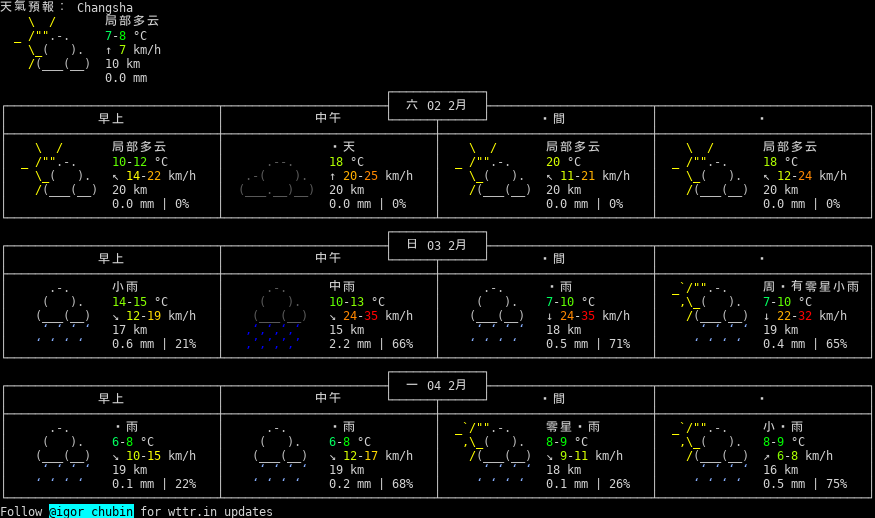
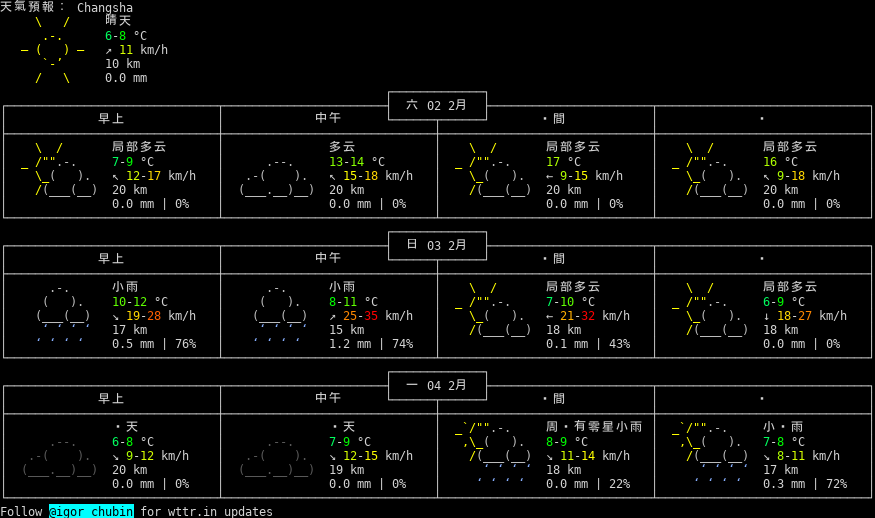
update Today's log:)

diff --git a/README.md b/README.md
@@ -6480,3 +6480,4 @@ My Shell_script learning note
 * 2019年02月02日 星期Sat AM 9:00 CST   天气: 2-4°C (Heiwajima, Japan)
 * 2019年02月02日 星期Sat AM 9:20 CST   天气: 2-4°C (Heiwajima, Japan)
 * 2019年02月02日 星期Sat AM 9:40 CST   天气: 2-4°C (Heiwajima, Japan)
+* 2019年02月02日 星期Sat AM10:00 CST   天气: 8-9°C (Heiwajima, Japan)

diff --git a/weather.md b/weather.md
@@ -25749,3 +25749,7 @@
 
 ![](PNG/20190202.png)
 
+2019年 02月 02日
+
+![](PNG/20190202.png)
+
